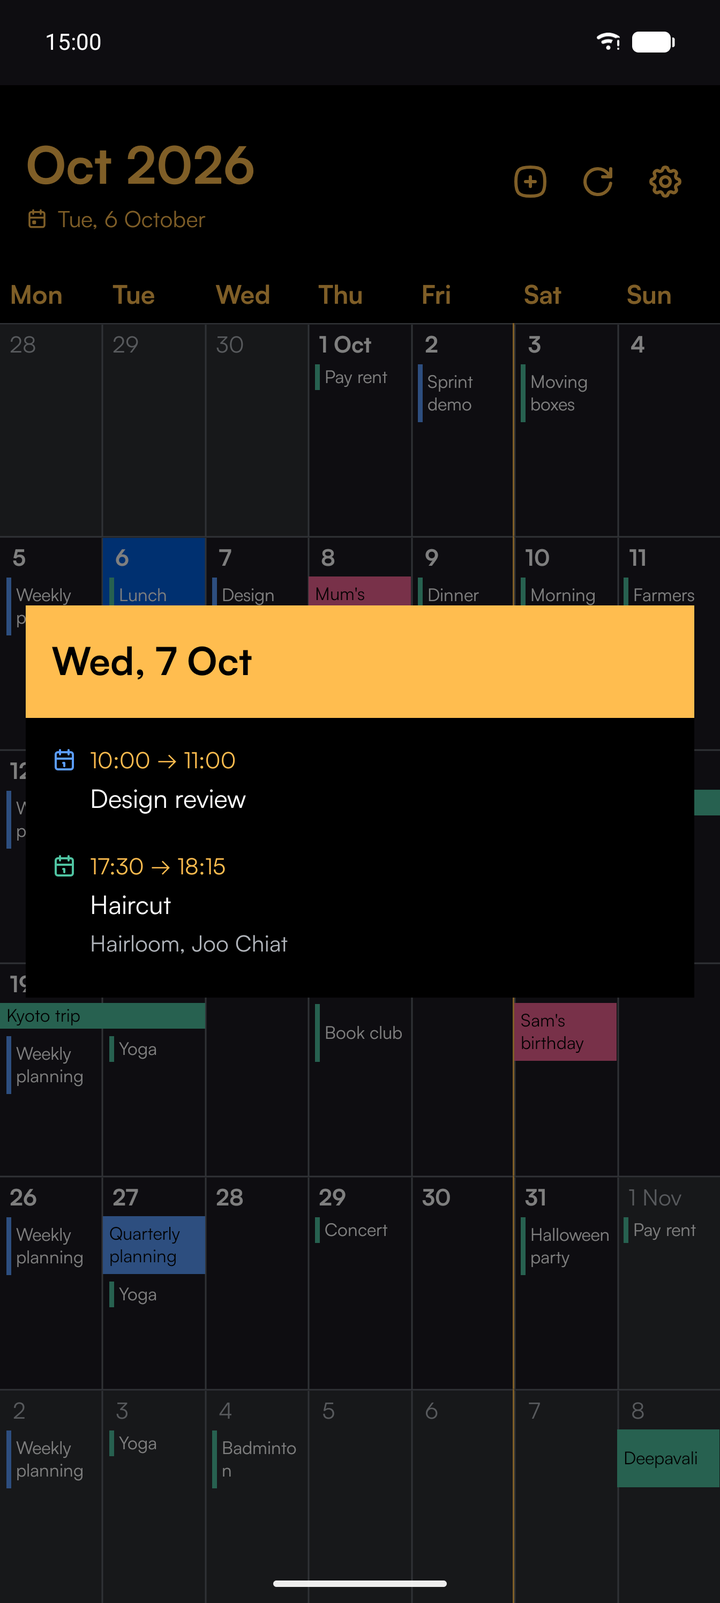
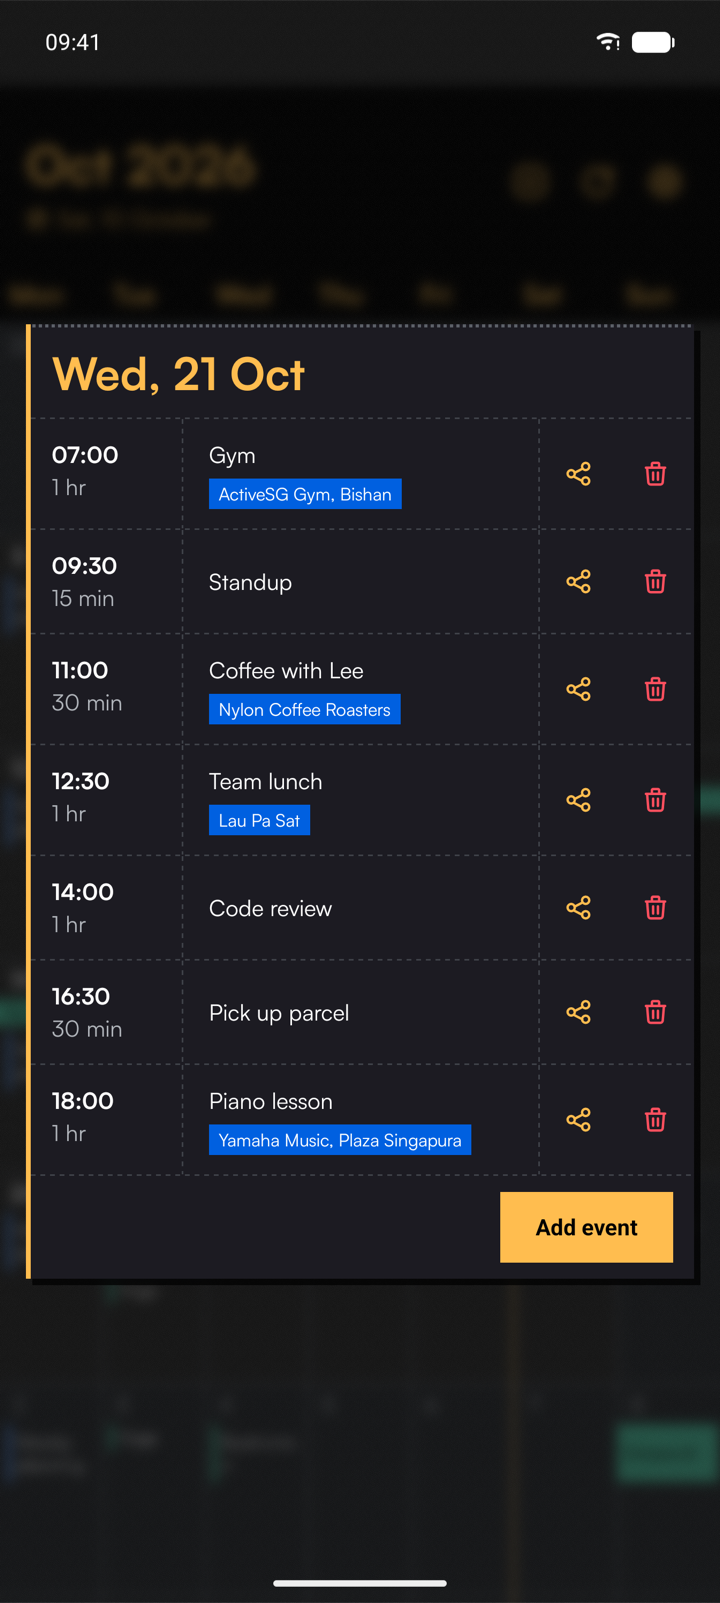
docs: new README pictures, five on the phone and five on the web
The phone set is retaken from the current build (the day list now has share and
delete on every row and an Add event button); a second block shows the web app
on a desktop window: login, month, a busy day, the editor and settings. All made
up: nothing from a real calendar.

diff --git a/README.md b/README.md
@@ -4,6 +4,10 @@ hitome is a calendar for witnessing one's days.
 
 <img src="docs/screenshots/widget.png" alt="The home-screen agenda widget" width="18%"> &nbsp; <img src="docs/screenshots/month.png" alt="The month grid" width="18%"> &nbsp; <img src="docs/screenshots/day.png" alt="A day's events in a popover over the grid" width="18%"> &nbsp; <img src="docs/screenshots/editor.png" alt="Editing an event" width="18%"> &nbsp; <img src="docs/screenshots/settings.png" alt="Settings" width="18%">
 
+<img src="docs/screenshots/web-login.png" alt="The web login" width="32%"> &nbsp; <img src="docs/screenshots/web-month.png" alt="The month grid on the web" width="32%"> &nbsp; <img src="docs/screenshots/web-day.png" alt="A busy day's events, with share and delete on each" width="32%">
+
+<img src="docs/screenshots/web-editor.png" alt="Editing an event on the web" width="32%"> &nbsp; <img src="docs/screenshots/web-settings.png" alt="Settings on the web" width="32%">
+
 # Capabilities
 
 hitome draws a self-hosted calendar as one continuous grid of weeks on the web
